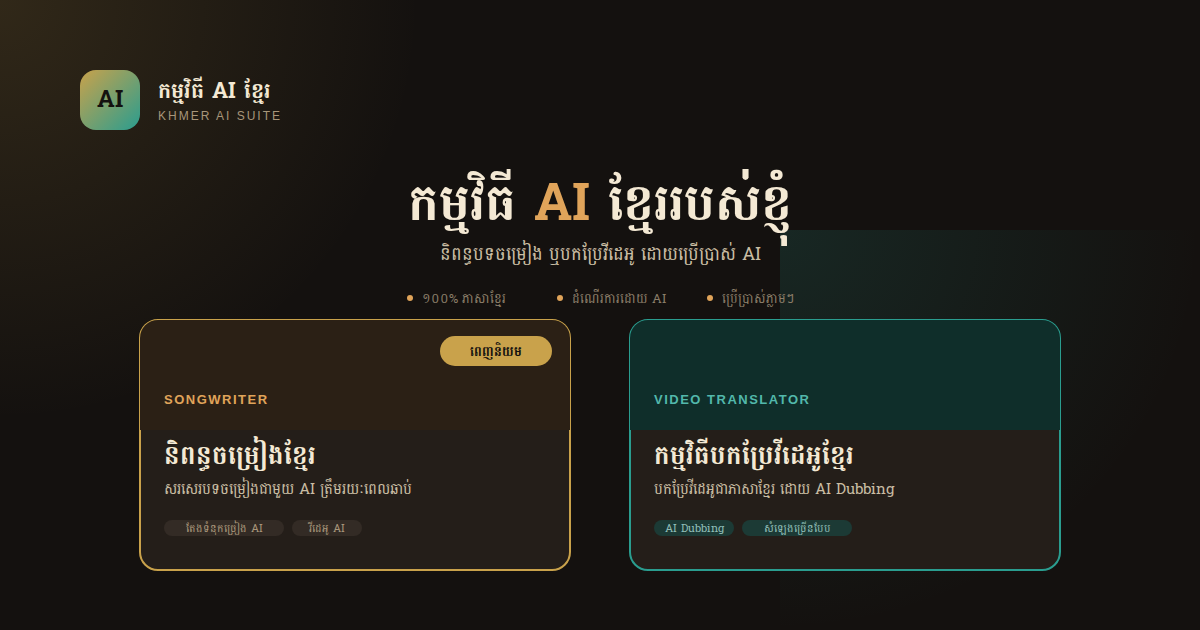
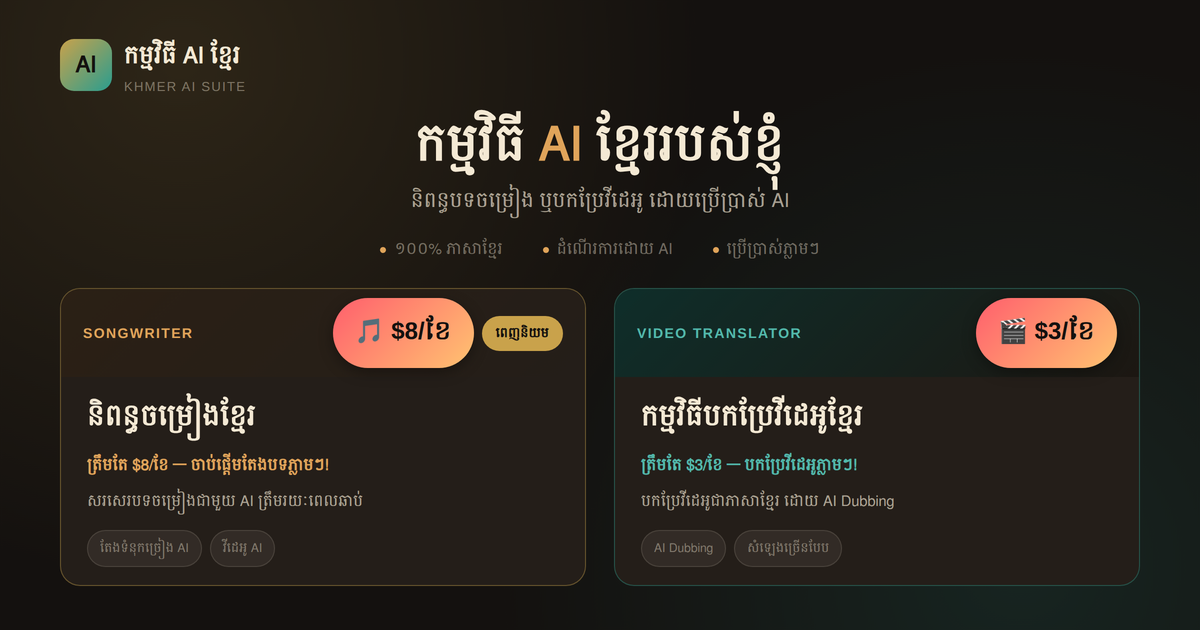
Add pricing to landing page cards

diff --git a/public/index.html b/public/index.html
@@ -127,6 +127,18 @@
     font-size:10.5px; font-weight:700; padding:5px 12px; border-radius:100px;
     background:var(--accent, var(--gold)); color:#14110f;
   }
+  .app-price{
+    position:absolute; top:16px; left:16px; z-index:1;
+    font-size:17px; font-weight:800; padding:9px 18px; border-radius:100px;
+    background:linear-gradient(135deg, #ff5f6d, #ffc371);
+    color:#14110f;
+    box-shadow:0 4px 14px rgba(0,0,0,0.35);
+    letter-spacing:0.01em;
+  }
+  .app-price-line{
+    font-size:13px; font-weight:700; color:var(--accent-soft, var(--gold-soft));
+    margin-bottom:10px;
+  }
 
   .app-body{padding:26px 26px 30px; display:flex; flex-direction:column; flex:1;}
   .app-name{font-family:'Battambang',serif; font-size:23px; font-weight:700; margin-bottom:9px;}
@@ -197,11 +209,13 @@
 
     <a href="https://songwriter-server.onrender.com/khmer-songwriter-landing.html" class="app-card songwriter-card" target="_blank" rel="noopener">
       <div class="app-cover songwriter-cover" style="background-image:url('songwriter-thumb.jpg')">
+        <span class="app-price">🎵 $8/ខែ</span>
         <span class="app-popular khmer">ពេញនិយម</span>
         <div class="app-cover-label">Songwriter</div>
       </div>
       <div class="app-body">
         <div class="app-name khmer">និពន្ធចម្រៀងខ្មែរ</div>
+        <div class="app-price-line khmer">ត្រឹមតែ $8/ខែ — ចាប់ផ្តើមតែងបទភ្លាមៗ!</div>
         <p class="app-tagline khmer">សរសេរបទចម្រៀងខ្មែរជាមួយ AI ពីមួយបន្ទាត់កំណាព្យ ទៅជាបទចម្រៀងពេញលក្ខណៈ ព្រមទាំងវីដេអូផ្ទាំងខាងក្រោយ និងសំឡេងច្រៀង</p>
         <div class="app-features khmer">
           <span>តែងទំនុកច្រៀង AI</span>
@@ -214,10 +228,12 @@
 
     <a href="https://khmer-video-translator.netlify.app" class="app-card translator-card" target="_blank" rel="noopener">
       <div class="app-cover translator-cover">
+        <span class="app-price">🎬 $3/ខែ</span>
         <div class="app-cover-label">Video Translator</div>
       </div>
       <div class="app-body">
         <div class="app-name khmer">កម្មវិធីបកប្រែវីដេអូខ្មែរ</div>
+        <div class="app-price-line khmer">ត្រឹមតែ $3/ខែ — បកប្រែវីដេអូភ្លាមៗ!</div>
         <p class="app-tagline khmer">បកប្រែវីដេអូណាមួយឱ្យទៅជាភាសាខ្មែរធម្មជាតិ ដោយ AI Dubbing ជ្រើសរើសសំឡេងអ្នកនិយាយច្រើនបែប នាំចេញបានក្នុងមួយចុច</p>
         <div class="app-features khmer">
           <span>AI Dubbing</span>
